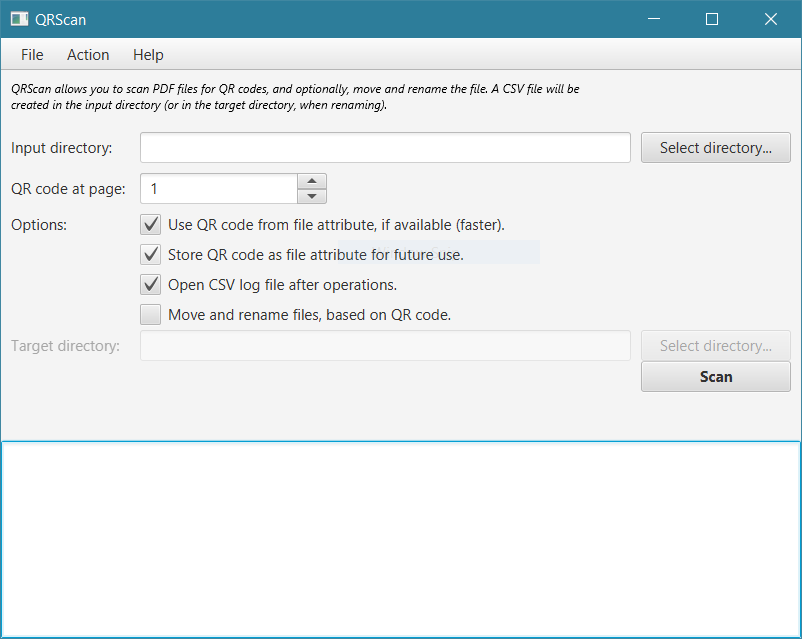
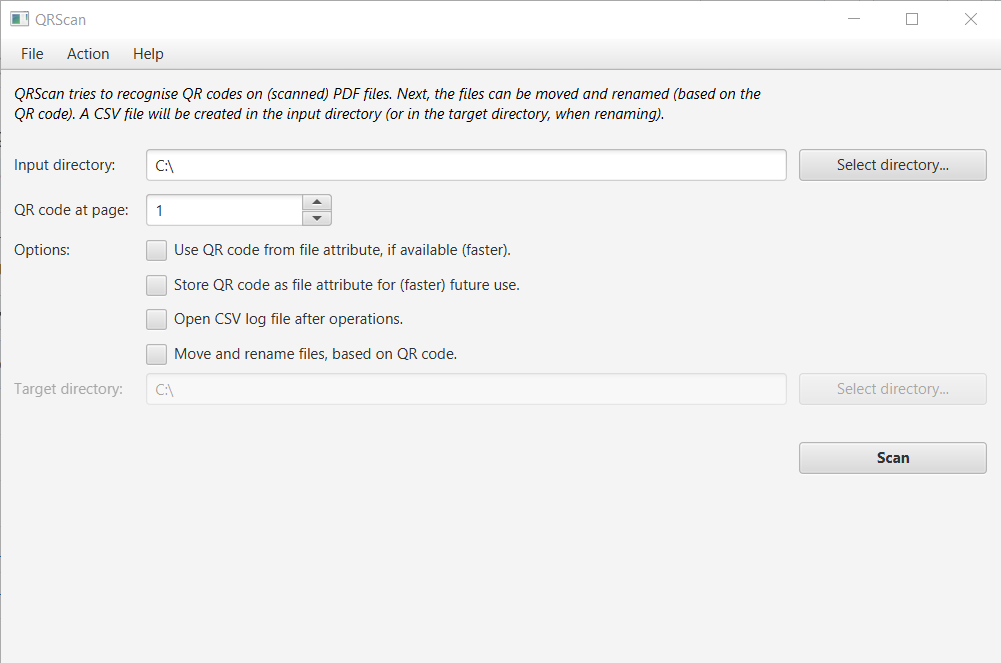
Update site, update dialog titles.

Changed region(s): [[0.0, 0.0, 1.0, 1.0], [0.8105, 0.5352, 0.9663, 0.6244]]

diff --git a/src/main/java/nl/ls31/qrscan/ui/view/ProgressDialog.java b/src/main/java/nl/ls31/qrscan/ui/view/ProgressDialog.java
@@ -16,24 +16,25 @@ import javafx.stage.StageStyle;
  */
 public class ProgressDialog {
     private final Stage dialogStage;
-    private final ProgressBar pb = new ProgressBar();
-    private final ProgressIndicator pin = new ProgressIndicator();
 
     public ProgressDialog(String title, ReadOnlyDoubleProperty taskProgressProperty) {
         dialogStage = new Stage();
         dialogStage.initStyle(StageStyle.UTILITY);
         dialogStage.setResizable(false);
         dialogStage.initModality(Modality.APPLICATION_MODAL);
+        dialogStage.setTitle(title);
 
         // Progress bar
         final Label label = new Label(title);
+        ProgressBar pb = new ProgressBar();
         pb.setProgress(-1F);
+        ProgressIndicator pin = new ProgressIndicator();
         pin.setProgress(-1F);
 
         final HBox hb = new HBox();
         hb.setSpacing(5);
         hb.setAlignment(Pos.CENTER);
-        hb.getChildren().addAll(pb, pin);
+        hb.getChildren().addAll(label, pb, pin);
 
         Scene scene = new Scene(hb);
         dialogStage.setScene(scene);

diff --git a/src/main/java/nl/ls31/qrscan/ui/view/RootController.java b/src/main/java/nl/ls31/qrscan/ui/view/RootController.java
@@ -6,7 +6,6 @@ import javafx.scene.Scene;
 import javafx.scene.control.Alert;
 import javafx.scene.control.Alert.AlertType;
 import javafx.scene.control.MenuItem;
-import javafx.scene.control.TextArea;
 import javafx.scene.layout.AnchorPane;
 import javafx.stage.Modality;
 import javafx.stage.Stage;
@@ -30,8 +29,6 @@ public class RootController {
     private MenuItem createItem;
     @FXML
     private MenuItem manualTagItem;
-    @FXML
-    private TextArea logTextArea;
 
     /**
      * Sets a call back reference to the main application.

diff --git a/src/main/java/nl/ls31/qrscan/ui/view/CreateController.java b/src/main/java/nl/ls31/qrscan/ui/view/CreateController.java
@@ -110,9 +110,7 @@ public class CreateController {
         ProgressDialog pForm = new ProgressDialog("Creating files...", createTask.progressProperty());
         pForm.show();
 
-        createTask.setOnSucceeded(event -> {
-            pForm.close();
-        });
+        createTask.setOnSucceeded(event -> pForm.close());
 
         createTask.messageProperty().addListener((observable, oldValue, newValue) -> {
             Alert alert = new Alert(Alert.AlertType.INFORMATION);

diff --git a/README.md b/README.md
@@ -3,19 +3,20 @@
 
 ![QRScan screenshot main screen](qrscan_capture.png)
 
-If you have a large collection of PDF files of scanned documents, QRScan can help you keep track of your documents and set up basic file archiving. QRScan recognizes QR codes in PDF files of scanned documents and then reports these QR codes in a CSV file. QRScan can move and rename the PDF files according to their QR code (with sequential numbering appended as a suffix if PDF files share the same QR code). 
-
-The QR codes can be stored as a file attribute (for faster future reference). If automatic QR code recognition fails, you can manually add the file attribute to the PDF file. 
-
-To be able to incorporate QR codes in the documents you want to print in the first place, QRScan can generate GIF image files with QR codes if you provide a simple text file with the codes you want to be used (with one code at each line). See for example this guide on how to use Microsoft Word's mail merge feature to add the images: [Two ways to batch insert multiple images in a Word document via mail merge](https://www.datanumen.com/blogs/2-ways-batch-insert-multiple-pictures-word-document-via-mail-merge/).
+If you have a large collection of PDF files of scanned documents, QRScan can help you keep track of your documents and set up basic file archiving. QRScan recognizes QR codes in PDF files of scanned documents and then reports these QR codes in a CSV file. QRScan can move and rename the PDF files according to their QR code. 
 
 We used the QRScan tool to send questionnaires labeled with individual QR codes. For the returned questionnaires, we used QRScan to register and to archive the scanned responses.
 
+# Detailed functions
+* QRScan can generate GIF image files with QR codes if you provide a simple text file with the codes you want to be used (with one code at each line). You can incorporate these QR codes in any documents (e.g. forms) you want to print (and later scan to PDF and manage with QRScan again). See for example this guide on how to use Microsoft Word's mail merge feature to add the images: [Two ways to batch insert multiple images in a Word document via mail merge](https://www.datanumen.com/blogs/2-ways-batch-insert-multiple-pictures-word-document-via-mail-merge/).
+* When renaming, QRScan appends sequential numbers as a suffix if PDF files share the same QR code to prevent clashing file names.
+* When scanning, QR codes can be stored as a file attribute for faster future reference. 
+* If automatic QR code recognition fails, you can manually add the file attribute to the PDF file. 
+
+Good QR code recognition has been attained with documents that were scanned at a resolution of 300 DPI.
+
 # Installation
 The [provided executable JAR](https://github.com/LS31/qrscan/releases) is ready to use. The current version runs with Java 14. You need to have a recent Java Virtual Machine ([Java Runtime Environment](https://java.com/en/download/)) installed to execute the JAR file. On Windows, simply double-click the JAR file to execute. 
-
-# Good QR code recognition
-Good QR code recognition has been attained with documents that were scanned at a resolution of 300 DPI. 
 
 # Acknowledgements
 A big thanks to the following projects: [PDFBox by The Apache Software Foundation](https://pdfbox.apache.org/), [Java Advanced Imaging Image I/O Tools API](https://github.com/jai-imageio/jai-imageio-jpeg2000), and the [ZXing project](https://github.com/zxing).
@@ -28,5 +29,7 @@ A big thanks to the following projects: [PDFBox by The Apache Software Foundatio
   * Minor changes in lay-out.
 * **2.1.0**
   * Remember previous settings when restarting program.
-  * Update to JDK/JRE 14.
-  * Update versions of all dependencies.
+  * Added progress dialog windows.
+  * Updated logging (and simplified for end user).
+  * Updated to JDK/JRE 14.
+  * Updated versions of all dependencies.
